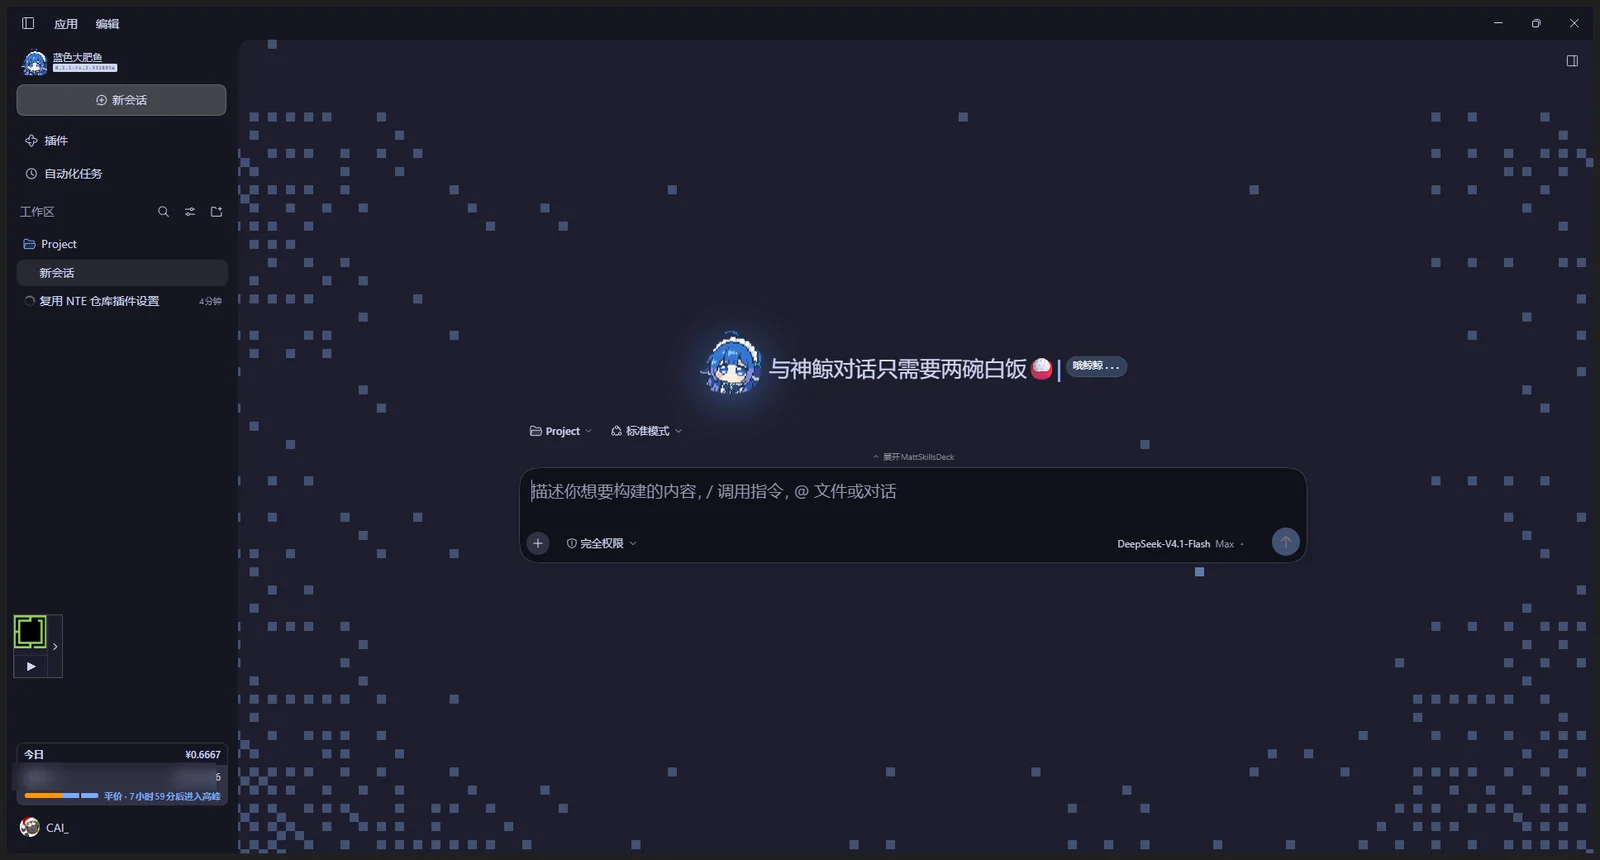
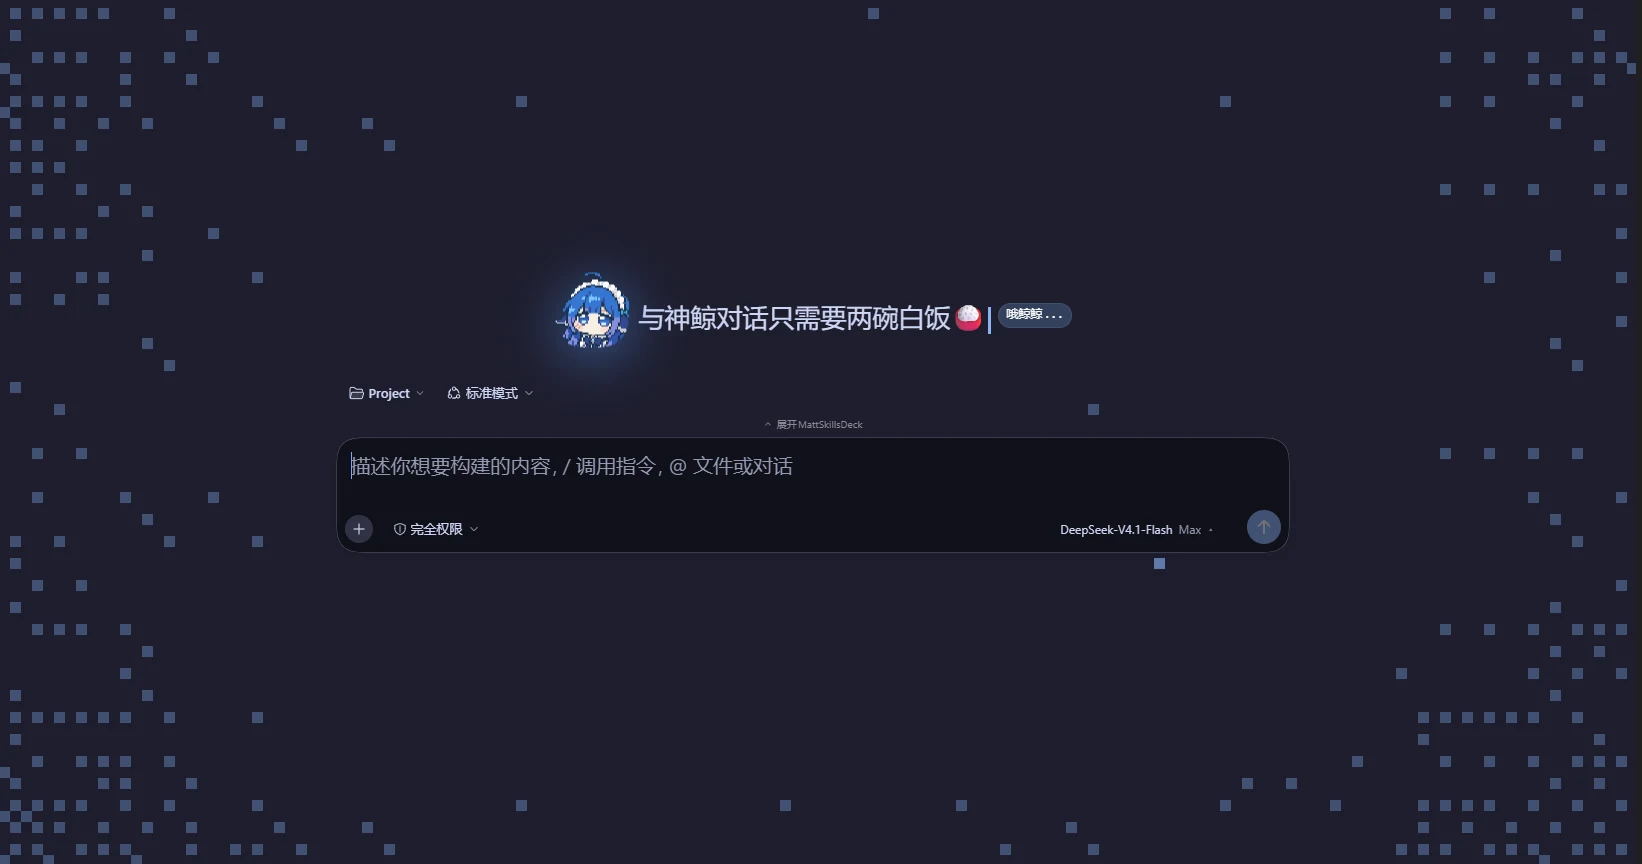
docs(readme): interaction-only hero and effort-slider shot
Crop the hero to the conversation pane (no sidebar or window chrome) and add the four-stop reasoning-effort slider popover.

diff --git a/README.md b/README.md
@@ -27,23 +27,20 @@
 
 ---
 
-## DSH 界面皮肤 —— 同一套审美的另一半
+## DSH 特制主题皮肤
 
-桌面上是 Catppuccin + 娜娜莉，AI 客户端里是像素星野 + 蓝色大肥鱼。
-`dsh/` 装的是一份 DeepSeek Harness（DSH）的 `web` profile：两个本地插件
-（品牌封面、推理滑轨）加六个第三方 bundle，把能改的界面细节都改成了这套语言。
+- Hyprland是 `Catppuccin` + `娜娜莉`，DSH端是`像素星野` + `蓝色大肥鱼`。
+- `dsh/` 内含 `web` profile：插件（像素封面、推理滑轨）加六个第三方 bundle。
 
 <p align="center">
   <img src="assets/dsh/hero.webp" alt="DSH 新会话：像素星野、蓝色大肥鱼、哦鲸鲸徽章" width="100%">
 </p>
 
-图里能看到的：侧栏品牌整块换成了「蓝色大肥鱼」；新会话 hero 是一整片像素星野，
-中间浮着同一个头像；标题旁挂着「哦鲸鲸…」的预览徽章；输入框右下角是模型卡片，
-点开就是四档推理滑轨。
+>「蓝色大肥鱼」、像素星野、「哦鲸鲸…」、神鲸四档推理滑轨
 
-### 自定义细节
+### 轻量、足够有趣的组件
 
-| 细节 | 来自 | 怎么做的 |
+| Feature | 来自 | 怎么做的 |
 |---|---|---|
 | **蓝色大肥鱼** | `dsh-brand-cover`（本地） | 1 KB 的 WebP 内联成 data URI：侧栏 24px 标记 + hero 2.2× 圆形头像，7s 漂浮 + 蓝色辉光，`prefers-reduced-motion` 下静止 |
 | **哦鲸鲸…** | `dsh-brand-cover`（本地） | 官方预览徽章先 `font-size:0` 再挂 `::after` 文案，不改布局、不抢 locale 命名空间 |
@@ -55,50 +52,12 @@
 | **右侧栏与 skills** | `dsh-better-sidebar`、`dsh-mattpocock-skills-deck` | 文件树、编辑器、任务、侧边对话收进右栏；ISSUE 与 map 管理 |
 
 <p align="center">
-  <img src="assets/dsh/typing.webp" alt="三句轮播的打字机标题" width="620">
+  <img src="assets/dsh/slider.webp" alt="四档推理滑轨：模型卡片里的模型与推理等级" width="460">
 </p>
-
-### 插件清单
-
-`dsh/profiles/web/package.json` 在官方 `dsh-base` / `dsh-web-app` 之外新增的 8 个 bundle，
-版本由 `pnpm-lock.yaml` 锁定：
-
-| Bundle | 版本 | 说明 |
-|---|---|---|
-| `@local/dsh-brand-cover` | 1.0.0 | 侧栏与 hero 品牌封面、「哦鲸鲸…」徽章 |
-| `@local/dsh-effort-slider` | 1.0.0 | 四档推理滑轨 |
-| `omaseek-themes` | 0.3.1 | 22 套 Omarchy 首页配色 → 32 个 design token |
-| `omaseek-pixel` | 0.2.1 | 像素 hero + 打字机标题 |
-| `omaseek-music` | 0.2.6 | 侧栏音乐卡片 |
-| `dsh-better-sidebar` | 0.28.0 | 右侧栏：文件树、编辑器、任务、侧边对话 |
-| `dsh-cost-meter` | 1.9.3 | 费用计量与峰谷价倒计时 |
-| `dsh-mattpocock-skills-deck` | 1.9.0-beta.4 | skills deck 与 ISSUE / map 工具 |
 
 <p align="center">
-  <img src="assets/dsh/plugins.webp" alt="DSH 插件页：内置、实验性与已安装插件" width="100%">
+  <img src="assets/dsh/typing.webp" alt="三句轮播的打字机标题" width="620">
 </p>
-
-### profile 里还调了什么
-
-`dsh/profiles/web/cordis.patch.yml` 只留了和界面有关的一层（节选）：
-
-```yaml
-- id: ui-chat
-  config:
-    transcriptView: detailed     # 默认展开工具轨迹
-    performanceUsage: compact    # 用量条收窄
-- id: ui-conversation
-  config:
-    busyEnter: steer             # 忙时回车改为插话
-- id: ui-theme
-  config:
-    fontSize: 15
-- id: better-sidebar
-  config:
-    agentOpenTools: true         # 工具详情直接在右栏打开
-```
-
-模型默认 `deepseek-flash`、`reasoningEffort: high`，权限预设默认 `danger-full-access`。
 
 ### 复现
 
@@ -111,14 +70,14 @@ cd ~/.dsh/profiles/web && pnpm install
 细节见 [`dsh/README.md`](dsh/README.md)。
 
 <details>
-<summary><b>为什么这套配置能整包搬走（点击展开）</b></summary>
+<summary><b>配置支持一键打包安装（点击展开）</b></summary>
 
 <br>
 
 - **版本对得上**：配置钉在 DSH `0.2.1-rc.2`，bundle 的 patch id（`ui-chat`、`ui-theme`、
-  `permission`…）全部存在，不会出现「patch 找不到目标」。
+  `permission`…）全部存在」。
 - **路径是相对的**：两个本地插件用 `link:../../plugins/...`，在仓库内和部署到
-  `~/.dsh` 之后指向同一处。
+  `~/.dsh` 。
 - **依赖可复现**：`pnpm-lock.yaml` 锁住 179 个包，安装时用 `--frozen-lockfile`。
 - **两个补丁**：`patches/omaseek-pixel@0.2.1.patch` 和 `patches/omaseek-themes@0.3.1.patch`
   由 `pnpm-workspace.yaml` 的 `patchedDependencies` 应用。
